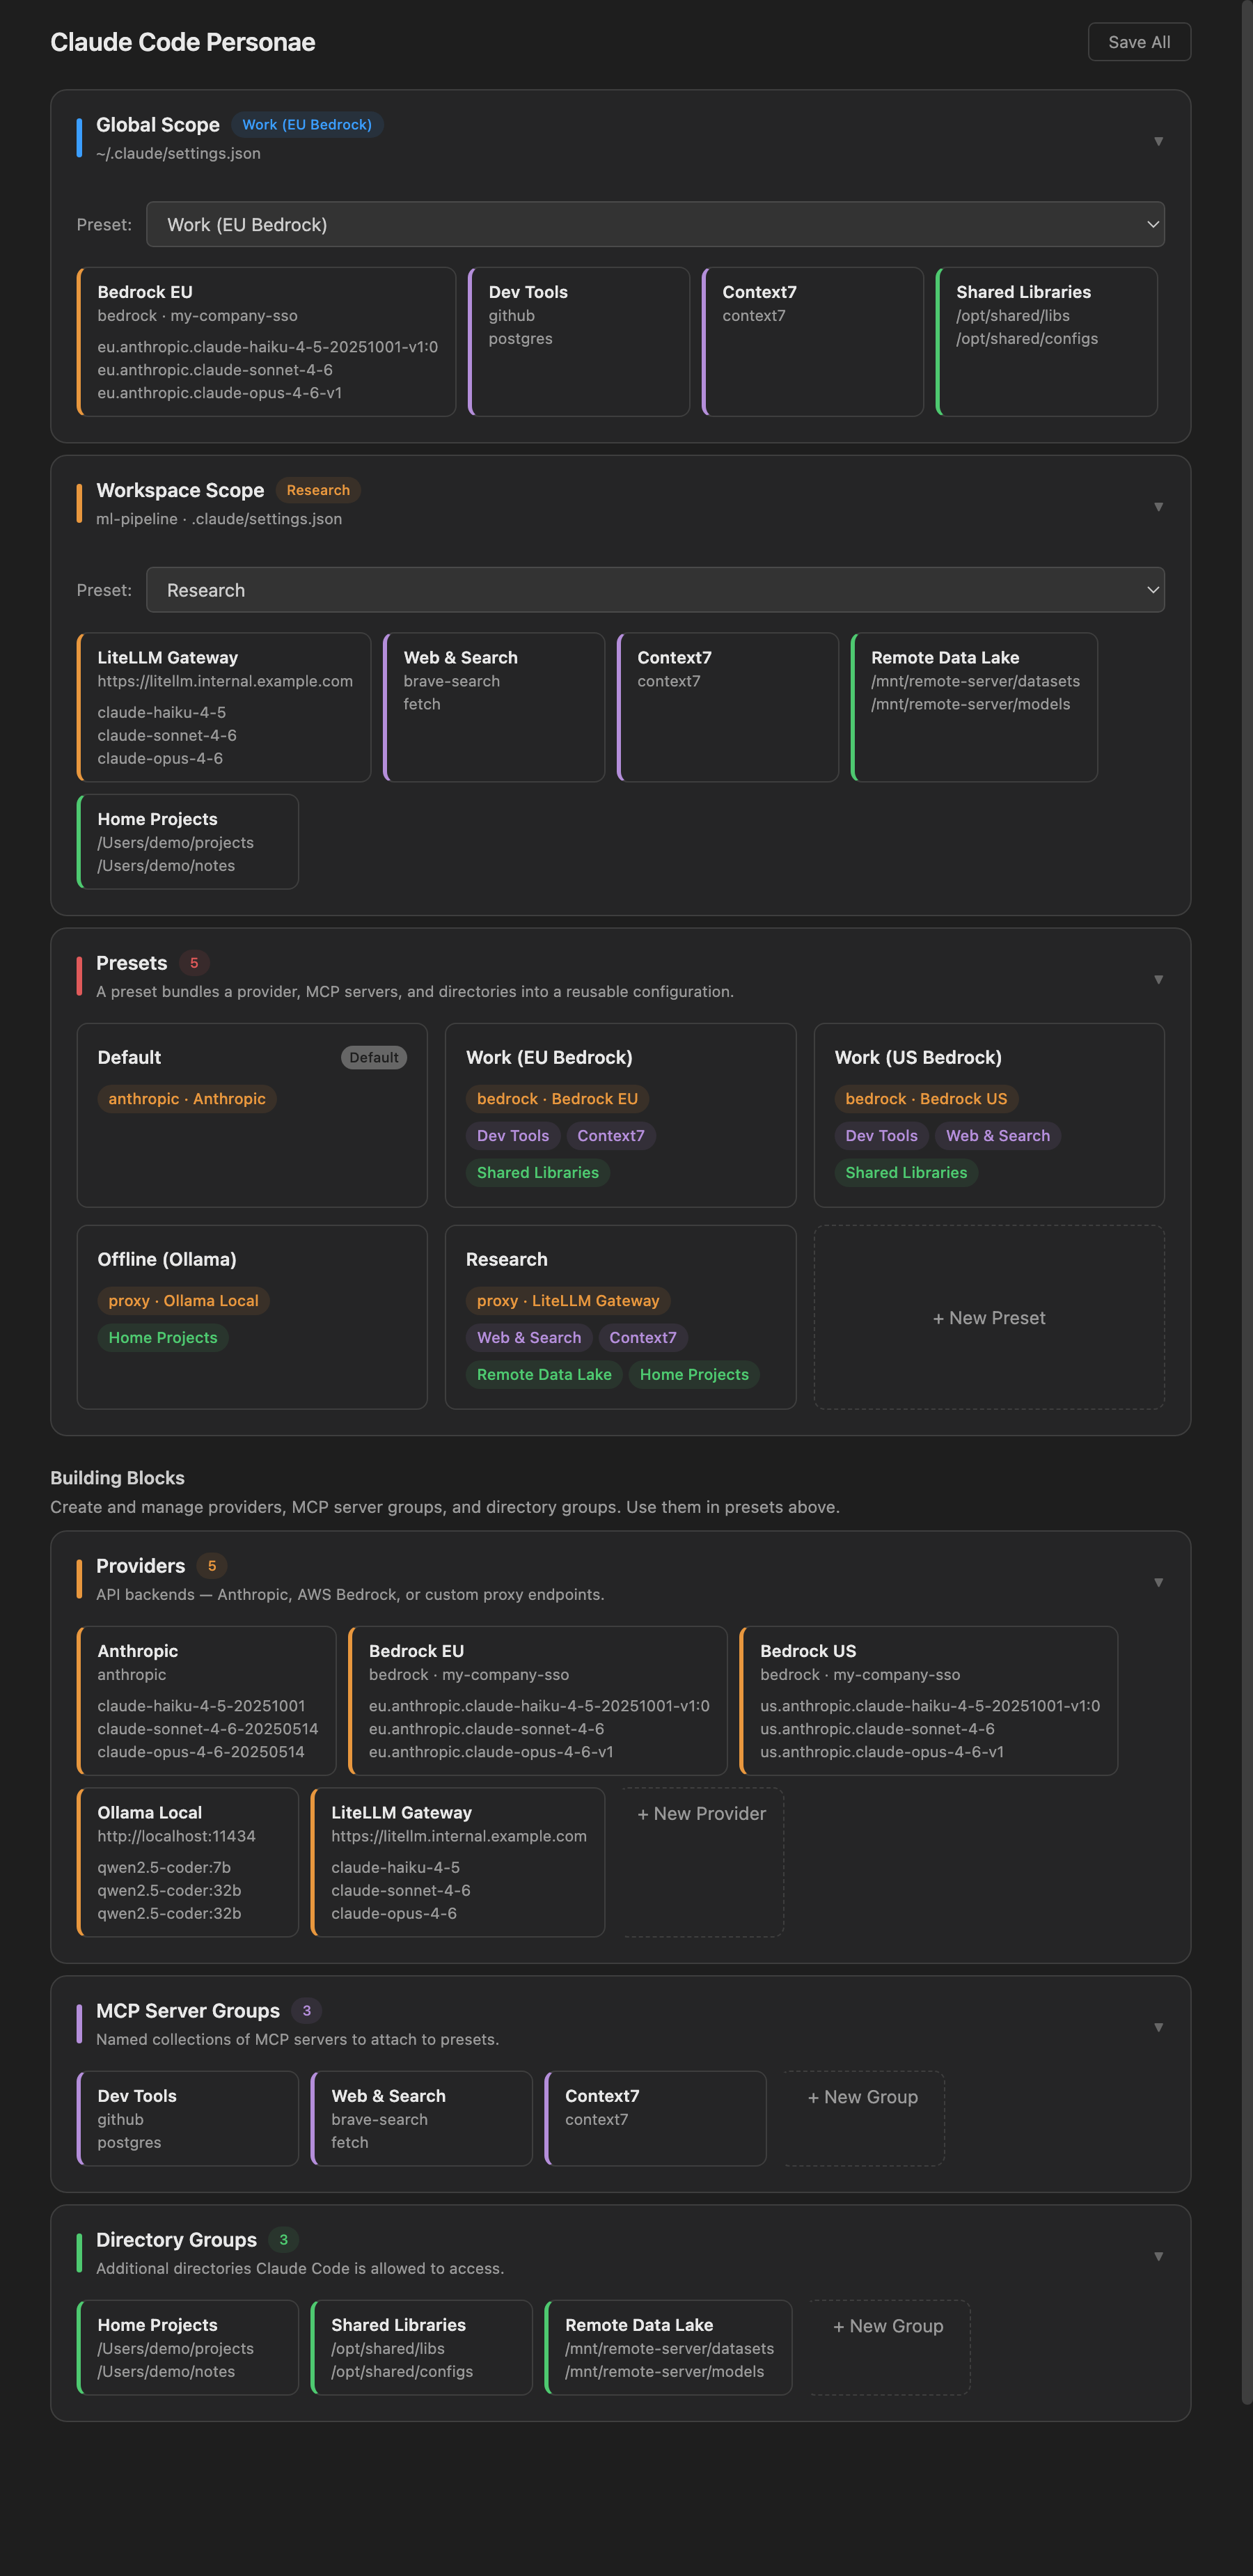
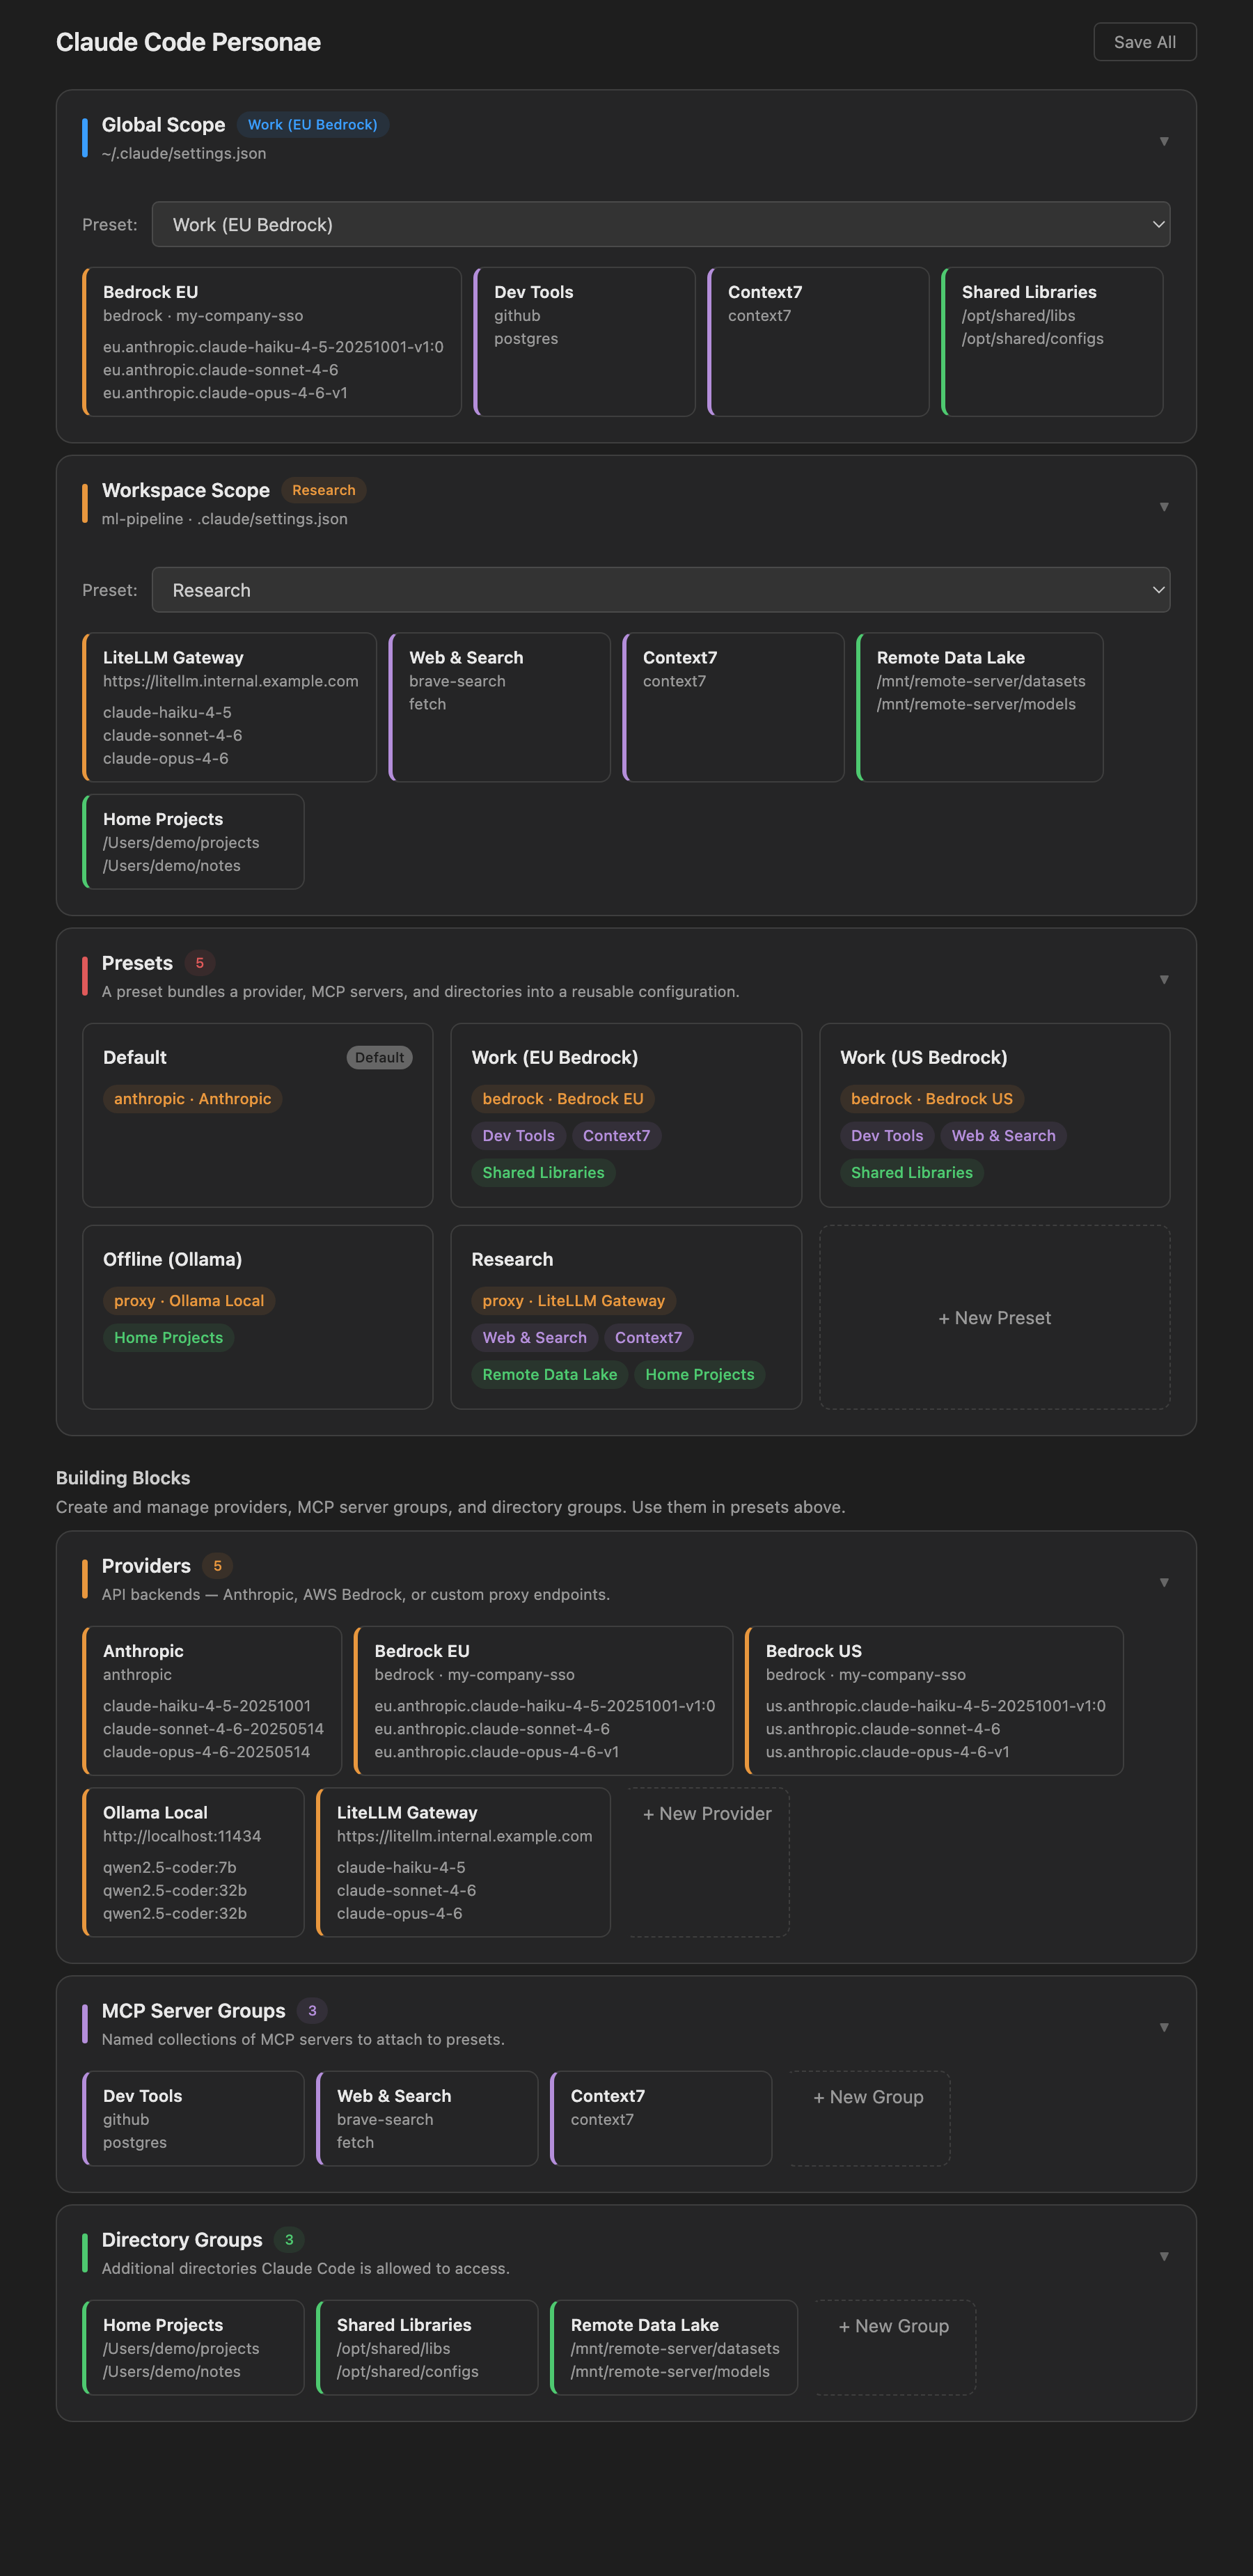
v0.3.20: mutually exclusive credentials, rename main screen, drop DISABLE_AUTOUPDATER
- Resolver: never write both ANTHROPIC_API_KEY and ANTHROPIC_AUTH_TOKEN. Drop
  the synthetic AUTH_TOKEN='local' hack — login suppression handled by
  CLAUDE_CODE_DISABLE_NONESSENTIAL_TRAFFIC.
- Resolver: stop writing DISABLE_AUTOUPDATER. Auto-update is a CLI-lifecycle
  decision, not a per-preset one. Existing values cleaned on next save (the
  key stays in MANAGED_ENV_KEYS for the clean-slate migration; deferred:
  remove from MANAGED_ENV_KEYS so user-set values survive applies).
- Webview: rename main heading + tab title from "Claude Code Settings" to
  "Claude Code Personae". Save toast → "Saved".
- Repo: untrack .claude/settings.json and .mcp.json (they are artifacts of
  the extension, not source). ROADMAP rewritten around .ccp file concept.

diff --git a/core/src/resolver.ts b/core/src/resolver.ts
@@ -101,17 +101,19 @@ export function resolvePreset(
         const mode = provider.proxyAuthMode
           ?? (provider.proxyAuthToken ? 'authtoken' : 'apikey'); // eslint-disable-line deprecation/deprecation
 
-        // 1Password: op:// ref → apiKeyHelper (conflicts with AUTH_TOKEN, so skip that)
+        // Mutual exclusivity rule: ANTHROPIC_API_KEY and ANTHROPIC_AUTH_TOKEN must never
+        // coexist in settings.json. Exactly one is written based on the user-selected mode,
+        // or neither when keyless. Login-prompt suppression is handled by
+        // CLAUDE_CODE_DISABLE_NONESSENTIAL_TRAFFIC (set below), not by a synthetic token.
         if (cred?.startsWith('op://')) {
+          // 1Password ref → apiKeyHelper (no API_KEY/AUTH_TOKEN written)
           apiKeyHelper = `op read '${cred}'`;
         } else if (cred && mode === 'authtoken') {
           env['ANTHROPIC_AUTH_TOKEN'] = cred;
         } else if (cred && mode === 'apikey') {
           env['ANTHROPIC_API_KEY'] = cred;
-          env['ANTHROPIC_AUTH_TOKEN'] = 'local';  // suppresses login prompt
-        } else {
-          env['ANTHROPIC_AUTH_TOKEN'] = 'local';  // keyless — suppress login prompt only
         }
+        // keyless: write neither — disableLoginPrompt toggle controls prompt suppression
         break;
       }
     }
@@ -128,14 +130,16 @@ export function resolvePreset(
       env['ANTHROPIC_DEFAULT_OPUS_MODEL'] = provider.opusModel || '';
     }
     env['DISABLE_PROMPT_CACHING'] = provider.disablePromptCaching ? '1' : '';
-    // Bedrock always disables login/nonessential traffic (AWS auth, never needs Anthropic login).
+    // Bedrock always disables nonessential traffic (AWS auth, never needs Anthropic login).
     // Proxy defaults to disabled (most are local/non-Anthropic); explicit false overrides for
     // proxies that forward to Anthropic and need the login flow.
+    // DISABLE_AUTOUPDATER is intentionally NOT written here: auto-update is a CLI-lifecycle
+    // decision that belongs to the user/machine, not a preset. Toggling presets across
+    // workspaces shouldn't flip whether the CLI updates itself.
     const shouldDisableLoginPrompt =
       provider.type === 'bedrock' ||
       (provider.type === 'proxy' && provider.disableLoginPrompt !== false);
     env['CLAUDE_CODE_DISABLE_NONESSENTIAL_TRAFFIC'] = shouldDisableLoginPrompt ? '1' : '0';
-    env['DISABLE_AUTOUPDATER'] = shouldDisableLoginPrompt ? '1' : '0';
 
   }
 
@@ -183,7 +187,7 @@ export function resolvePreset(
 function isNoOp(key: string, value: string): boolean {
   if (value === '') { return true; }
   if (key === 'CLAUDE_CODE_USE_BEDROCK' && value === '0') { return true; }
-  if ((key === 'CLAUDE_CODE_DISABLE_NONESSENTIAL_TRAFFIC' || key === 'DISABLE_AUTOUPDATER') && value === '0') { return true; }
+  if (key === 'CLAUDE_CODE_DISABLE_NONESSENTIAL_TRAFFIC' && value === '0') { return true; }
   return false;
 }
 

diff --git a/extension/src/panel.ts b/extension/src/panel.ts
@@ -153,8 +153,8 @@ function migrateExistingSettings(workspaceRoot: string | undefined): ProfileStor
 // Panel class
 // ---------------------------------------------------------------------------
 
-const PANEL_TITLE = 'Claude Code — Settings';
-const PANEL_TITLE_DIRTY = 'Claude Code — Settings ●';
+const PANEL_TITLE = 'Claude Code Personae';
+const PANEL_TITLE_DIRTY = 'Claude Code Personae ●';
 
 export class ClaudeCodeSettingsPanel {
   public static currentPanel: ClaudeCodeSettingsPanel | undefined;
@@ -726,7 +726,7 @@ export class ClaudeCodeSettingsPanel {
             this._syncVsCodeLoginSetting(draft);
             refreshStatusBar();
             ClaudeCodeSettingsPanel._clearDraft();
-            vscode.window.showInformationMessage('Settings saved.');
+            vscode.window.showInformationMessage('Saved.');
           } else if (choice === 'Discard') {
             ClaudeCodeSettingsPanel._clearDraft();
           }

diff --git a/extension/src/webview/index.ts b/extension/src/webview/index.ts
@@ -24,7 +24,7 @@ export function buildHtml(state: PanelState, nonce: string, cspSource: string, s
   <meta name="viewport" content="width=device-width, initial-scale=1.0" />
   <meta http-equiv="Content-Security-Policy"
         content="default-src 'none'; style-src ${cspSource} 'nonce-${nonce}'; script-src 'nonce-${nonce}' ${cspSource};" />
-  <title>Claude Code Settings</title>
+  <title>Claude Code Personae</title>
   <style nonce="${nonce}">${styles}</style>
 </head>
 <body>
@@ -40,7 +40,7 @@ export function buildHtml(state: PanelState, nonce: string, cspSource: string, s
             <rect x="-50" y="-50" width="100" height="100" rx="7" ry="7" fill="#e8973e" transform="matrix(0.60,0.27,-0.60,0.27,128,86)" opacity="0.82"/>
             <rect x="-50" y="-50" width="100" height="100" rx="7" ry="7" fill="#d97857" transform="matrix(0.40,0.18,-0.40,0.18,128,60)" opacity="0.88"/>
           </svg>
-          <h1>Claude Code Settings</h1>
+          <h1>Claude Code Personae</h1>
         </div>
         <button class="btn btn-secondary btn-sm" data-action="reload">Reload</button>
         <button class="btn btn-secondary btn-sm" data-action="open-file">Open File</button>
@@ -79,7 +79,7 @@ export function buildHtml(state: PanelState, nonce: string, cspSource: string, s
   </div>
 
   <!-- Save Toast -->
-  <div class="save-toast" id="save-toast">Settings saved</div>
+  <div class="save-toast" id="save-toast">Saved</div>
 
   <!-- Drawers -->
   ${drawers}

diff --git a/extension/media/webview.js b/extension/media/webview.js
@@ -2364,7 +2364,7 @@ console.log('[WEBVIEW] Script loaded');
       case 'saved':
         dirty = false;
         updateSaveIndicator();
-        showToast('Settings saved');
+        showToast('Saved');
         break;
 
       case 'error':

diff --git a/ROADMAP.md b/ROADMAP.md
@@ -1,38 +1,20 @@
 # Roadmap
 
-This document captures architectural decisions and planned work discussed during development.
+This document captures planned work and open design decisions.
 
 ---
 
-## CLI & Core extraction
+## Configuration as Code
 
-### Context
+### `.ccp` file per project
 
-The extension currently contains all logic for reading/writing `~/.claude/coder-profiles.json` and resolving presets to `settings.json` files. To enable programmatic access — scripting, CI, git hooks — this logic will be extracted into two independent packages:
+A tiny JSON file at the repo root declaring the desired preset:
 
-| Package | npm name | Purpose |
-|---|---|---|
-| `ccp-core` | `@easytocloud/ccp-core` | Shared types, profile store read/write, preset resolver |
-| `ccp-cli` | `@easytocloud/ccp` | Terminal CLI wrapping core |
+```json
+{ "preset": "bedrock-prod" }
+```
 
-The extension will remain unchanged until after the demo, then be refactored to depend on `ccp-core` instead of its own copies of `src/profiles.ts`, `src/resolver.ts`, and `src/types.ts`.
-
-### CLI commands (initial scope)
-
-| Command | Description |
-|---|---|
-| `ccp list` | List all presets |
-| `ccp show <preset>` | Show preset details (provider, MCP groups, directory groups) |
-| `ccp use <preset> [--workspace]` | Assign preset to global or current working directory |
-| `ccp where <preset>` | List all directories where a preset is assigned |
-| `ccp status` | Show all workspace → preset assignments |
-| `ccp sync` | Re-apply all workspace assignments (rewrite `.claude/settings.json` for every known workspace) |
-
-### Source of truth for workspace assignments
-
-`~/.claude/coder-profiles.json` contains a `workspaceScopes` map (`workspacePath → { mode, presetId }`) that already tracks which preset is assigned to which directory. This is the index `ccp where` and `ccp status` query.
-
-**Gap:** `workspaceScopes` only contains workspaces opened in VS Code with a preset assigned via the UI. Repos with manually edited `.claude/settings.json` won't appear. Future `ccp scan` command could crawl configurable root directories to find all deployed settings files and correlate them back to presets.
+No credentials — safe to commit. `ccp apply` reads it before falling back to `workspaceScopes`. Makes preset assignment auditable in git history and enables repos that never open in VS Code (CI, SSH, new teammates) to self-describe their required preset. `ccp scan` can discover repos by looking for this file.
 
 ---
 
@@ -40,16 +22,9 @@ The extension will remain unchanged until after the demo, then be refactored to 
 
 ### Problem
 
-When a preset — or any of its components (provider models, MCP server groups, directory groups) — is updated, all workspaces using that preset have stale `.claude/settings.json` files until they are re-applied.
+When a preset — or any of its components (provider models, MCP server groups, directory groups) — is updated, all workspaces using that preset have stale `.claude/settings.json` files until they are re-applied. `ccp sync` (shipped v0.2.0) covers the manual case.
 
-### Options evaluated
-
-**Option 1 — Pull on demand (`ccp sync`)**
-CLI command re-resolves all presets in `workspaceScopes` and rewrites their `.claude/settings.json` files.
-- `ccp sync` — re-apply all workspace assignments
-- `ccp sync --dry-run` — show what would change without writing
-- Simple, predictable, no background processes. Manual step — easy to forget.
-- **Shipped.** `cmdSync` re-applies the global scope plus every entry in `workspaceScopes`, skips `manual` scopes, clears `inherit` scopes, and reports workspaces whose directory no longer exists. (`ccp apply` remains the global + current-workspace-only variant.)
+### Options remaining
 
 **Option 2 — Extension save triggers re-apply (natural fit)**
 Extend the existing save handler: when a preset is saved in the extension UI, iterate all `workspaceScopes` entries and re-apply to every known workspace path (not just the current one).
@@ -71,15 +46,55 @@ Long-running process watches `~/.claude/coder-profiles.json` for changes and re-
 
 ### Recommended path
 
-1. Ship `ccp sync` in the CLI (Option 1) — covers manual and scripted workflows
-2. Extend extension save to re-apply all workspaces (Option 2) — post-demo refactor
-3. `ccp watch` as a `launchd` agent (Option 3) — separate workstream
-4. `ccp init-hooks` for git hook installation (Option 4) — pairs well with Option 3
+1. Extend extension save to re-apply all workspaces (Option 2) — post-demo refactor
+2. `ccp watch` as a `launchd` agent (Option 3) — separate workstream
+3. `ccp init-hooks` for git hook installation (Option 4) — pairs well with Option 3
+
+---
+
+## CLI completeness
+
+### Headless setup
+
+- **`ccp init`** — interactive wizard: pick provider type, fill in credentials, name the preset, assign to current directory. Covers the "new machine" case without opening VS Code.
+- **`ccp validate`** — verify all presets in the store resolve correctly (provider exists, MCP groups and dir groups exist, no broken references). Exits non-zero — designed for CI.
+- **`ccp diagnose`** — health check: reach each provider's endpoint, verify MCP server commands exist on PATH, check AWS profile is valid.
+
+### Output formats
+
+- **`ccp export --format env`** — emit shell export statements (`export AWS_PROFILE=prod AWS_REGION=eu-west-1 ...`) so a script can `eval $(ccp export --format env --preset bedrock-prod)` without touching any config files. Useful for one-shot commands and CI.
+
+---
+
+## Team / multi-machine sharing
+
+- **`ccp sync --from <git-url|file>`** — pull a shared "team profiles" repo, merge structure into local store, leave credentials untouched. New team members run this once to get the full preset catalogue; they supply their own credentials. Builds on the existing import-merge logic.
+- **Diff on import** — before `--mode replace`, show a structured diff of what would change (presets added/removed/modified), not a raw JSON diff.
+
+---
+
+## Observability
+
+- **`ccp history`** — append-only log of preset applications (`~/.claude/ccp-history.jsonl`) with timestamps and preset versions. Answers: "when did I last apply `bedrock-prod` here, and was it the current version?"
+- **Diff before Save All** — collapsible preview in the extension showing exactly what will be written to `settings.json` and `.mcp.json` before committing. Currently a black box.
+
+---
+
+## Scale (when presets multiply)
+
+- **Preset tags** — free-form `tags: ["bedrock", "prod", "eu"]` on presets; filter/group in the GUI and via `ccp list --tag prod`.
+- **`ccp diff <preset-a> <preset-b>`** — structural diff between two presets: provider, models, MCP groups, directory groups.
+- **Search in the preset grid** — filter input in the VS Code panel, essential past ~15 presets.
+
+---
+
+## MCP depth
+
+- **MCP server health check** — "Test" button per MCP server: spawn the process, send a `tools/list` JSON-RPC call, report discovered tools. Same UX as the existing model test pills.
+- **MCP server discovery** — scan npm global packages for `@modelcontextprotocol/server-*` and `mcp-server-*` naming conventions; offer to add found servers automatically.
 
 ---
 
 ## Future ideas
 
 - `ccp scan [--root ~/Developer]` — crawl directories to find all deployed `.claude/settings.json` files and correlate back to presets; surfaces repos not tracked in `workspaceScopes`
-- `ccp export / import` — same as extension UI export/import, credential-scrubbed
-- Homebrew formula for `ccp` — `brew install easytocloud/tap/ccp`

diff --git a/extension/CHANGELOG.md b/extension/CHANGELOG.md
@@ -4,6 +4,15 @@ All notable changes to this extension will be documented here.
 
 ## [Unreleased]
 
+## [0.3.20] — 2026-06-05
+
+### Fixed
+- **Mutually exclusive credentials** — `.claude/settings.json` no longer writes both `ANTHROPIC_API_KEY` and `ANTHROPIC_AUTH_TOKEN` at the same time. Previously the resolver wrote `ANTHROPIC_AUTH_TOKEN='local'` alongside `ANTHROPIC_API_KEY` in "Local / Other" provider apikey mode (and `'local'` alone in keyless mode) as a login-prompt suppression hack. Now exactly one of the two is written (or neither when keyless), and login suppression is handled solely by `CLAUDE_CODE_DISABLE_NONESSENTIAL_TRAFFIC`. Switching auth modes automatically removes the previously-written variable.
+
+### Changed
+- **Renamed main screen** — the webview heading, tab title, and document title changed from "Claude Code Settings" to "Claude Code Personae" to match the product name. Save confirmation toast shortened to "Saved".
+- **`DISABLE_AUTOUPDATER` no longer managed** — auto-updating the Claude Code CLI is a per-machine lifecycle decision, not a per-preset one. The resolver no longer writes this variable, so switching presets across workspaces never flips your auto-update behavior. Any previously written value is cleaned out on the next save (clean-slate migration). Users who want auto-updates disabled can set this themselves in `~/.claude/settings.json` outside the extension (note: still managed for now, so a future version is planned to leave hand-set values alone).
+
 ## [0.3.19] — 2026-06-05
 
 ### Fixed

diff --git a/extension/README.md b/extension/README.md
@@ -37,7 +37,7 @@ A sample configuration is included in [`examples/coder-profiles.json`](examples/
 
 ## Getting Started
 
-1. Open the Command Palette → **Open Claude Code Settings**
+1. Open the Command Palette → **Open Claude Code Personae**
 2. Create a **Provider** (e.g. AWS Bedrock with your profile and region)
 3. Optionally create **MCP Server Groups** and **Directory Groups**
 4. Create a **Preset** that combines your provider with any groups